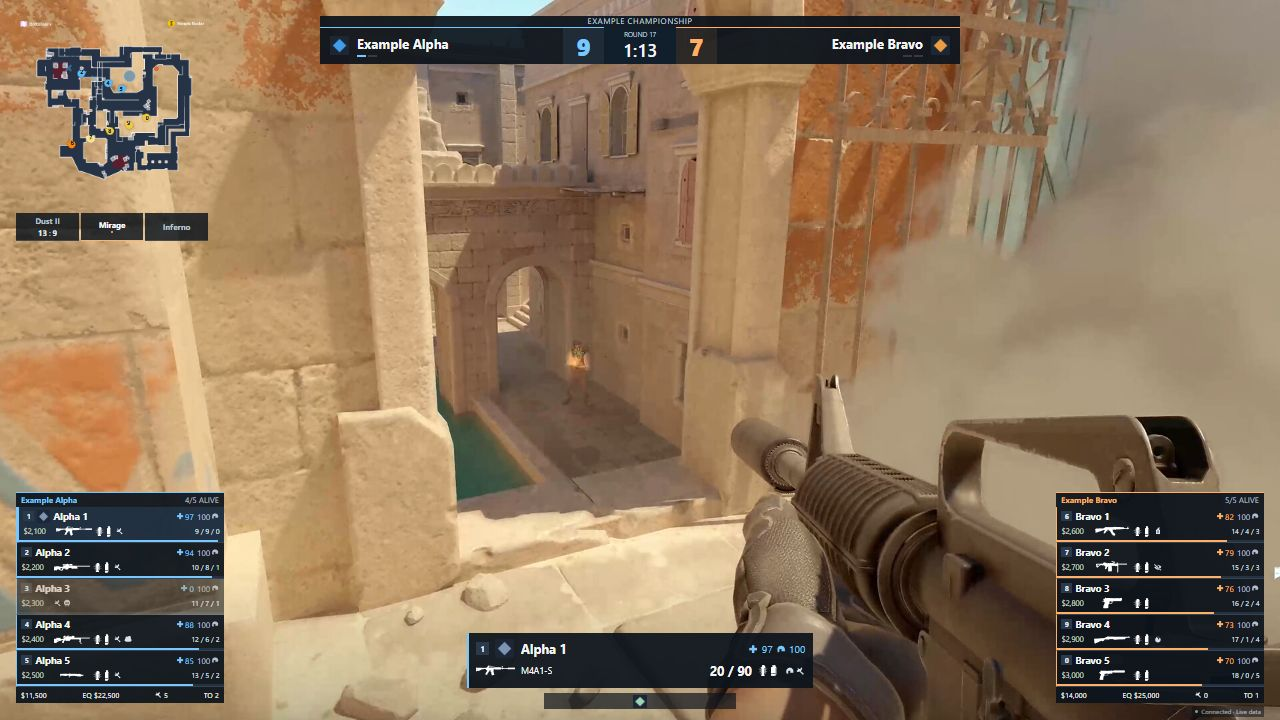
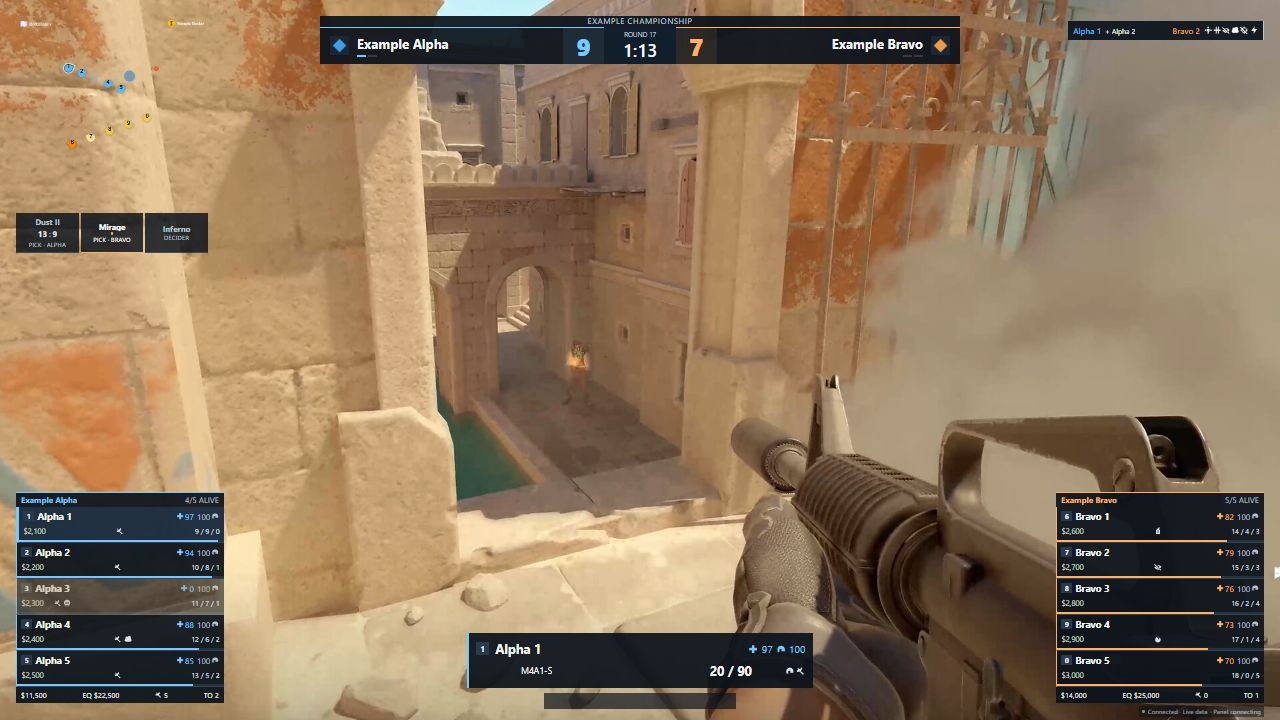
Match NYXIA radar motion and show explicit map pick teams

diff --git a/src/BasicHud/wwwroot/hud.css b/src/BasicHud/wwwroot/hud.css
@@ -100,6 +100,8 @@ html, body, #app { width: 100%; height: 100%; margin: 0; overflow: hidden; backg
 .radar-widget > svg { display: block; width: 100%; height: 100%; overflow: visible; }
 .radar-grid { fill: none; stroke: #a3b7cb; stroke-opacity: .2; stroke-width: .2; }
 .radar-marker.ct { --radar-side: #5ab8f4; }
+/* NYXIA's 50 ms linear target-to-target movement; keys reset discontinuities. */
+.radar-marker.player, .radar-marker.grenade { transition: transform 50ms linear; }
 .radar-marker.t { --radar-side: #f0c941; }
 .radar-marker.neutral { --radar-side: #c9d0d9; }
 .radar-marker .bolt-dot { position: absolute; inset: 0; background: var(--radar-side,#c9d0d9); border-radius: 100% 5% 100% 100%; box-shadow: 0 0 1px #0006; transform-origin: center; }
@@ -246,7 +248,8 @@ html, body, #app { width: 100%; height: 100%; margin: 0; overflow: hidden; backg
 .series-wins { display: flex; gap: .18em; height: .18em; }
 .series-wins i { display: block; width: .7em; height: .18em; background: #ffffff25; }
 .series-wins i.won { background: var(--side); }
-.live-map-series { position: absolute; left: 1.25%; top: 29.62963%; width: 15%; height: 3.888889%; display: flex; gap: .13em; }
+.live-map-series { position: absolute; left: 1.25%; top: 29.62963%; width: 15%; height: 5.555556%; display: flex; gap: .13em; }
+.live-map-series .map-pick { max-width: 100%; padding-inline: .2em; font-size: .5em; line-height: 1.2; white-space: nowrap; overflow: hidden; text-overflow: ellipsis; }
 .live-map-series article { position: relative; flex: 1; min-width: 0; display: flex; flex-direction: column; align-items: center; justify-content: center; background: rgb(12 19 28 / 84%); border-bottom: .1em solid #75839655; color: #b8c4d1; gap: .1em; }
 .live-map-series article.is-current { border-color: #f0b775; color: #fff; }
 .live-map-series strong { display: block; max-width: 100%; font-size: .62em; line-height: 1.2; font-weight: 650; white-space: nowrap; overflow: hidden; text-overflow: ellipsis; padding-inline: .2em; }

diff --git a/src/BasicHud.Core/RadarProjection.cs b/src/BasicHud.Core/RadarProjection.cs
@@ -5,6 +5,7 @@ namespace BasicHud.Core;
 
 public sealed record RadarMarker(string Key, string Label, double X, double Y, double? Angle, TeamSide? Side, bool Dead, string Kind, string? Elevation = null)
 {
+    public string MotionKey { get; init; } = "";
     public bool Observed { get; init; }
     public bool BombCarrier { get; init; }
     public bool Flashed { get; init; }
@@ -24,6 +25,8 @@ public sealed class RadarProjection
     private string timeline = "";
     private double lastGameTime = double.MinValue;
     private long lastSequence = long.MinValue;
+    private long motionGeneration;
+    private bool? previousFresh;
     private RoundPhase? previousPhase;
     private string lastFrame = "", blockedFrame = "";
     private readonly Dictionary<string, Vector3State> positions = [];
@@ -36,18 +39,23 @@ public sealed class RadarProjection
         var game = context.Game;
         var nextReset = $"{context.Snapshot?.SessionId}:{game?.Map}:{game?.RoundNumber}";
         if (resetKey != nextReset || game?.RoundPhase == RoundPhase.FreezeTime && previousPhase != RoundPhase.FreezeTime)
-        { positions.Clear(); deadPositions.Clear(); flashes.Clear(); timeline = ""; lastGameTime = double.MinValue; lastSequence = long.MinValue; resetKey = nextReset; blockedFrame = lastFrame; }
+        { positions.Clear(); deadPositions.Clear(); flashes.Clear(); timeline = ""; lastGameTime = double.MinValue; lastSequence = long.MinValue; resetKey = nextReset; blockedFrame = lastFrame; motionGeneration++; }
         previousPhase = game?.RoundPhase;
         var radar = game?.Radar;
         var frame = $"{radar?.ConnectionId}:{radar?.Epoch}:{radar?.Sequence}";
         var fresh = radar is not null && radar.ConnectionId != Guid.Empty && radar.Epoch >= 0 && radar.Sequence >= 0 && double.IsFinite(radar.GameTimeSeconds)
-            && frame != blockedFrame && context.Now >= radar.ReceivedAt && context.Now - radar.ReceivedAt <= TimeSpan.FromMilliseconds(750);
+            && frame != blockedFrame && context.Now >= radar.ReceivedAt && context.Now - radar.ReceivedAt < TimeSpan.FromMilliseconds(750);
         if (fresh)
         {
             var nextTimeline = $"{radar!.ConnectionId}:{radar.Epoch}";
             if (nextTimeline != timeline) { positions.Clear(); deadPositions.Clear(); timeline = nextTimeline; lastGameTime = double.MinValue; lastSequence = long.MinValue; }
             if (radar.GameTimeSeconds < lastGameTime || radar.Sequence < lastSequence) fresh = false;
             else { lastGameTime = radar.GameTimeSeconds; lastSequence = radar.Sequence; lastFrame = frame; }
+        }
+        if (previousFresh != fresh)
+        {
+            positions.Clear(); deadPositions.Clear(); motionGeneration++;
+            previousFresh = fresh;
         }
         var raw = new List<(string Key, string Label, Vector3State Position, Vector3State? Forward, TeamSide? Side, bool Dead, string Kind)>();
         var activeIds = context.Players.Take(64).Where(player => player.SteamId is not null).Select(player => player.SteamId!).ToHashSet(StringComparer.Ordinal);
@@ -56,8 +64,9 @@ public sealed class RadarProjection
         foreach (var player in context.Players.Take(64))
         {
             var hlae = fresh && player.SteamId is { } id && !radar!.Players.IsDefault ? radar.Players.FirstOrDefault(item => item.SteamId == id) : null;
-            var position = hlae?.Position ?? player.Position;
-            var forward = hlae?.Forward ?? player.Forward;
+            // Like NYXIA: a fresh HLAE frame is one coherent source. Missing pawns do not jump to older GSI poses.
+            var position = fresh ? hlae?.Position : player.Position;
+            var forward = fresh ? hlae?.Forward : player.Forward;
             var dead = (hlae?.Health ?? player.Health) is <= 0;
             var key = player.SteamId;
             if (key is null || !Finite(position)) continue;
@@ -146,6 +155,7 @@ public sealed class RadarProjection
             Finite(item.Forward) && (item.Forward!.X != 0 || item.Forward.Y != 0) ? Math.Atan2(-item.Forward.Y, item.Forward.X) * 180 / Math.PI : null,
             item.Side, item.Dead, item.Kind, layer?.MinZ is { } minZ && item.Position.Z < minZ ? "lower" : layer?.MaxZ is { } maxZ && item.Position.Z >= maxZ ? "higher" : null)
             {
+                MotionKey = $"{resetKey}:{motionGeneration}:{timeline}:{(fresh ? "hlae" : "gsi")}:{overview}:{(bolt is null ? -1 : Array.FindIndex(bolt.Metadata!.Splits, split => item.Position.Z > split.Bounds!.Bottom && item.Position.Z < split.Bounds.Top))}:{item.Dead}:{item.Key}",
                 Observed = player?.SteamId is { } id && id == game?.ObservedPlayer?.SteamId,
                 BombCarrier = player is not null && EquipmentPresentation.HasBomb(player, game),
                 Flashed = player?.Flashed is > 31,

diff --git a/tests/BasicHud.Tests/RadarMotionAndPicksTests.cs b/tests/BasicHud.Tests/RadarMotionAndPicksTests.cs
@@ -1,0 +1,30 @@
+using BasicHud.Core;
+using SOU.Live.Contracts;
+
+static class RadarMotionAndPicksTests
+{
+    public static void Run(Action<bool, string> check)
+    {
+        var now = DateTimeOffset.UtcNow;
+        var session = Guid.NewGuid();
+        var player = new PlayerState("one", "One", TeamSide.CounterTerrorists, null, 100) { Position = new(900, 900, 0), ObserverSlot = 1 };
+        var missing = player with { SteamId = "two", ObserverSlot = 2 };
+        var radar = new RadarState(Guid.NewGuid(), 1, 1, 10, now, [new("one", 1, new(0, 0, 0), new(1, 0, 0), 100)]);
+        var game = new GameState("de_test", MatchPhase.Live, 1, RoundPhase.Live, null, null, player, [player, missing]) { Radar = radar };
+        BroadcastContext Context(GameState state, DateTimeOffset time) => new(new(2, session, 1, now, DataFreshness.Live, state), null, MetadataCatalog.Empty, time, _ => null);
+        var projection = new RadarProjection();
+        var first = projection.Project(Context(game, now));
+        check(first.Markers.Count == 1 && first.Markers[0].Key == "player:one", "fresh HLAE suppresses missing pawns rather than mixing older GSI positions");
+        var moving = game with { Radar = radar with { Sequence = 2, GameTimeSeconds = 10.05, Players = [new("one", 1, new(100, 0, 0), new(1, 0, 0), 100)] }, Players = [missing, player] };
+        var next = projection.Project(Context(moving, now.AddMilliseconds(50)));
+        check(next.Markers.Single().MotionKey == first.Markers.Single().MotionKey, "ordinary radar movement and roster reordering preserve marker identity for linear interpolation");
+        var stale = projection.Project(Context(moving, now.AddMilliseconds(751)));
+        check(stale.Markers.Count == 2 && stale.Markers[0].MotionKey != next.Markers[0].MotionKey, "expired HLAE falls back as a whole frame and resets movement across source boundaries");
+        var map = new ManagedMatchMap("map", "Mirage", "de_mirage", 1);
+        var match = new ManagedMatch("match", "Match", 3, new("A", "Alpha", "ALP", null, 0), new("B", "Bravo", "BRA", null, 0), new(TeamSide.CounterTerrorists, TeamRecognitionStatus.Manual, "B", 0, 0), new(TeamSide.Terrorists, TeamRecognitionStatus.Manual, "A", 0, 0)) { Maps = [map], Vetos = [new("map", "Mirage", "de_mirage", MapDecisionKind.Pick, "A", 3, 1)] };
+        check(MatchPresentation.MapPick(match, map) == ("PICK · ALP", "Picked by Alpha"), "series pick comes from the explicit veto team identity independently of current CT/T sides");
+        check(MatchPresentation.MapPick(match with { Vetos = [match.Vetos[0] with { Type = MapDecisionKind.Decider, TeamId = null }] }, map).Label == "DECIDER", "explicit decider is not invented as a team pick");
+        check(MatchPresentation.MapPick(match with { Vetos = [] }, map).Label == "Pick unknown" && MatchPresentation.MapPick(match with { Vetos = [match.Vetos[0] with { TeamId = "foreign" }] }, map).Label == "Pick unassigned", "missing pick and foreign team assignment remain unresolved");
+        check(MatchPresentation.MapPick(match with { Vetos = [match.Vetos[0], match.Vetos[0] with { TeamId = "B" }] }, map).Label == "Pick unknown", "conflicting veto decisions cannot silently select a pick team");
+    }
+}

diff --git a/src/BasicHud.Core/MatchPresentation.cs b/src/BasicHud.Core/MatchPresentation.cs
@@ -4,6 +4,21 @@ namespace BasicHud.Core;
 
 public static class MatchPresentation
 {
+    public static (string Label, string Description) MapPick(ManagedMatch match, ManagedMatchMap map)
+    {
+        var decisions = match.Vetos.Where(veto => !string.IsNullOrEmpty(map.Id) && veto.MapId == map.Id).ToArray();
+        if (decisions.Length != 1) return ("Pick unknown", "No unambiguous pick decision supplied");
+        var decision = decisions[0];
+        if (decision.PlayNumber is { } number && number != map.Number ||
+            !string.IsNullOrEmpty(decision.GameName) && !string.IsNullOrEmpty(map.GameName) && MapKey(decision.GameName) != MapKey(map.GameName))
+            return ("Pick unknown", "Conflicting map decision");
+        if (decision.Type == MapDecisionKind.Decider) return ("DECIDER", "Decider map");
+        if (decision.Type != MapDecisionKind.Pick) return ("Pick unknown", "No pick decision supplied");
+        var team = decision.TeamId == match.TeamA.Id ? match.TeamA : decision.TeamId == match.TeamB.Id ? match.TeamB : null;
+        if (team is null || match.TeamA.Id == match.TeamB.Id) return ("Pick unassigned", "Pick team not assigned");
+        return ($"PICK · {(string.IsNullOrWhiteSpace(team.ShortName) ? team.Name : team.ShortName)}", $"Picked by {team.Name}");
+    }
+
     public static bool ShowHistory(GameState? game)
     {
         if (game is null || game.RoundPhase == RoundPhase.Over ||

diff --git a/tests/BasicHud.Tests/BroadcastReferenceTests.cs b/tests/BasicHud.Tests/BroadcastReferenceTests.cs
@@ -81,7 +81,7 @@ static class BroadcastReferenceTests
             return bytes.LongLength == asset.GetProperty("bytes").GetInt64() && Convert.ToHexStringLower(SHA256.HashData(bytes)) == asset.GetProperty("sha256").GetString();
         }), "all 65 original Bolt images, metadata and utility files remain byte-identical to their recorded upstream source");
         using var http = new HttpClient(new BoltHandler(json));
-        check((await RadarCatalogLoader.LoadBoltAsync(http, new Uri("http://127.0.0.1/hud-packages/sou-basic-wasm/0.4.1/"), CancellationToken.None)).Find("de_dust2") is not null, "actual source-generated bounded loader loads the package-local Bolt metadata without a JSON5 runtime");
+        check((await RadarCatalogLoader.LoadBoltAsync(http, new Uri("http://127.0.0.1/hud-packages/sou-basic-wasm/0.4.2/"), CancellationToken.None)).Find("de_dust2") is not null, "actual source-generated bounded loader loads the package-local Bolt metadata without a JSON5 runtime");
     }
     sealed class BoltHandler(string json) : HttpMessageHandler
     {

diff --git a/tests/BasicHud.Tests/Program.cs b/tests/BasicHud.Tests/Program.cs
@@ -99,6 +99,7 @@ await RenderTests.Run(Check);
 await CompactTests.Run(Check);
 await BroadcastReferenceTests.Run(Check);
 WeaponPresenceTests.Run(Check);
+RadarMotionAndPicksTests.Run(Check);
 Console.WriteLine($"{checks} checks passed.");
 
 static async Task Until(Func<bool> ready)

diff --git a/README.md b/README.md
@@ -10,13 +10,13 @@ The screenshot shows the actual packaged renderer with synthetic HUD data in an 
 
 ## Install and use
 
-1. Download `sou-basic-wasm-0.4.1.souhud` and its SHA-256 file from [Releases](https://github.com/getsOU/sOU-HUD-WASM/releases).
+1. Download `sou-basic-wasm-0.4.2.souhud` and its SHA-256 file from [Releases](https://github.com/getsOU/sOU-HUD-WASM/releases).
 2. In the [sOU desktop app](https://www.getsou.app/get-sou), choose **HUDs → Paket importieren**, select the package and install it.
 3. Select the HUD and **Ansicht**, then copy the address for an OBS Browser Source or open the CS2 output. Use **1920 × 1080** and a transparent browser background. Use sOU's actual address rather than guessing the local port.
 4. Open its **Panel** and save/apply any captions, scene choices, references or images. All Hide checkboxes are unchecked by default: components stay enabled unless explicitly hidden.
 5. Supply CS2/HLAE data through sOU's normal setup. Optional data can remain absent; the HUD does not create missing players, game events or statistics.
 
-The stable package ID remains `sou-basic-wasm`; the current version is **0.4.1**, protocol v2. Select the new version and reopen outputs after installing. Caption/Hide fields and all eight views remain compatible. Previous releases and already running outputs are unchanged.
+The stable package ID remains `sou-basic-wasm`; the current version is **0.4.2**, protocol v2. Select the new version and reopen outputs after installing. Caption/Hide fields and all eight views remain compatible. Previous releases and already running outputs are unchanged.
 
 [Changelog](CHANGELOG.md) · [Eight output views](docs/views.md) · [All panel fields](docs/panel.md) · [Feature/source matrix and limits](docs/features.md) · [Public author guide](https://www.getsou.app/docs/hud-entwicklung)
 
@@ -27,7 +27,7 @@ The stable package ID remains `sou-basic-wasm`; the current version is **0.4.1**
 - Actual observed player with active/reloading weapon, firearm ammunition and utility icons. Dead players show no stale current weapons or inventory; an alive player without an active weapon has an empty weapon area. Holstered equipment is never substituted for an active weapon. A genuinely supplied unknown active weapon keeps its own fallback. No grenade ammo fractions are invented.
 - Per-side complete-or-unknown economy in the roster footer, with full alive/kit/utility/timeouts/loss-streak detail in statistics; numbered recent round results appear only during freeze, pause, timeout or intermission; active rounds including bomb/defuse remain clear. The statistics view retains the complete supplied history.
 - Real HLAE killfeed, keyed by connection/epoch/event ID, with all supplied modifier flags; no kills inferred from health changes.
-- Original Boltobserv radar with the original transparent maps, coordinate metadata and object-specific Nuke/Vertigo split projection. Original-style direction drops, observer digits, observed ring, bomb carrier, flashed/dead markers and utility connect to actual public data. Buyzones appear only during source freeze/warmup. Fresh HLAE falls back to GSI; optional custom calibration and separately attributed Valve overview fallbacks remain available. No permanent technical radar caption or empty replacement grid.
+- Original Boltobserv radar with the original transparent maps, coordinate metadata and object-specific Nuke/Vertigo split projection. Original-style direction drops, observer digits, observed ring, bomb carrier, flashed/dead markers and utility connect to actual public data. Buyzones appear only during source freeze/warmup. Fresh HLAE supplies the whole player frame; absent/expired HLAE falls back to GSI; optional custom calibration and separately attributed Valve overview fallbacks remain available. No permanent technical radar caption or empty replacement grid.
 - Ordered compact map-series cells below the radar, explicit stored results, exact current-map highlighting and side-aligned series wins. Full maps/veto/results and competition details remain in their presentation views. An unrelated source map never claims a configured current series slot.
 - Real prematch rosters and local profile pictures from optional, strictly match-bound local browser metadata; absent metadata does not break live output.
 - Full statistics, explicit player/team/match spotlight references, broadcast/sponsor images, ticker, manual replay/status text and deduplicated lower-third actions.
@@ -47,8 +47,8 @@ pwsh ./scripts/Build.ps1
 The script performs locked restore, restores the public `SOU.Hud.Tool`, verifies formatting, runs focused model/lifecycle/metadata tests and actual Razor image-error event checks, publishes Release WASM, packs and validates the HUD and writes a checksum:
 
 ```text
-artifacts/sou-basic-wasm-0.4.1.souhud
-artifacts/sou-basic-wasm-0.4.1.souhud.sha256
+artifacts/sou-basic-wasm-0.4.2.souhud
+artifacts/sou-basic-wasm-0.4.2.souhud.sha256
 ```
 
 Existing output directories/packages are never overwritten. Repeat in a fresh directory:
@@ -114,3 +114,9 @@ GPL-3.0-only from 0.4.0, including the adapted Boltobserv radar. Previous releas
 Update the manifest and reviewed documentation, then run build/tests and the existing release guards. Commit the source to `main`, wait for its successful workflow, then create a matching `vVERSION` tag. Its workflow repeats validation and publishes the built `.souhud` and SHA-256 as a GitHub Release. Existing releases are never overwritten.
 
 Build jobs have read-only repository access. Only the release job can create release assets, using the automatic short-lived GitHub Actions token. No personal access token or NuGet publishing credential is required. Pull requests and ordinary branch builds keep CI artifacts without publishing a release.
+
+## Radar movement and pick ownership (0.4.2)
+
+Radar motion follows NYXIA: short 50 ms linear transitions, stable player identity and immediate resets across source/session/map/round/floor changes. A fresh HLAE frame supplies all player positions; missing pawns are omitted rather than mixed with older GSI. At 750 ms the whole frame expires and existing GSI positions may be used. The HUD clock advances every 50 ms; WASM also updates it when receiving a snapshot. No positions are extrapolated.
+
+Live and full map series display the explicit pick team from the corresponding veto identity, or DECIDER. Pick ownership stays with TeamId through CT/T changes; absent, foreign or conflicting assignments remain unresolved. See CHANGELOG.md for earlier corrections.

diff --git a/scripts/release-notes.md b/scripts/release-notes.md
@@ -1,3 +1,10 @@
+# 0.4.2
+
+Match NYXIA radar behavior: 50 ms linear player/projectile movement, stable marker identities and resets at source, session, map, round and floor boundaries. A fresh HLAE player frame is authoritative as a whole; missing HLAE pawns no longer jump to older GSI positions. GSI is used only when that frame is absent or expires at 750 ms. The WASM renderer also refreshes its clock on receipt, preventing new HLAE frames from being incorrectly rejected against an old timestamp.
+
+Map series now show the explicit pick team, or DECIDER, in Live and presentation views. Pick ownership follows veto MapId and TeamId, independently of current CT/T sides. Missing or conflicting decisions remain unresolved.
+
+Import 0.4.2 and reopen the output. Existing releases, panel values, all eight views, original Boltobserv assets, GPL terms and public MIT SDK 0.2.0-preview.4 are preserved. Browser movement checks do not replace native CS2/OBS acceptance.
 # 0.4.1
 
 Corrects absent weapon handling in the live rosters, observed-player card and detail inventory. Dead players no longer display stale weapon icons, names or ammunition. Alive players with no active/reloading weapon leave the current weapon area empty; holstered inventory is never substituted for a held weapon. A genuinely supplied active weapon with an unknown identity still uses its distinct fallback. Actual reloading weapons and source ammunition remain visible; unknown health is not treated as death. Historical killfeed weapons are unchanged.

diff --git a/CHANGELOG.md b/CHANGELOG.md
@@ -1,5 +1,10 @@
 # Changelog
 
+## 0.4.2
+
+- Match NYXIA radar motion and coherent HLAE source selection; correct the WASM receipt clock.
+- Show explicit pick teams and deciders in all map-series displays, without guessing missing decisions.
+
 ## 0.4.1
 
 - Leave the current weapon area empty when an alive player has no active/reloading weapon. Holstered inventory is never used as a substitute.
